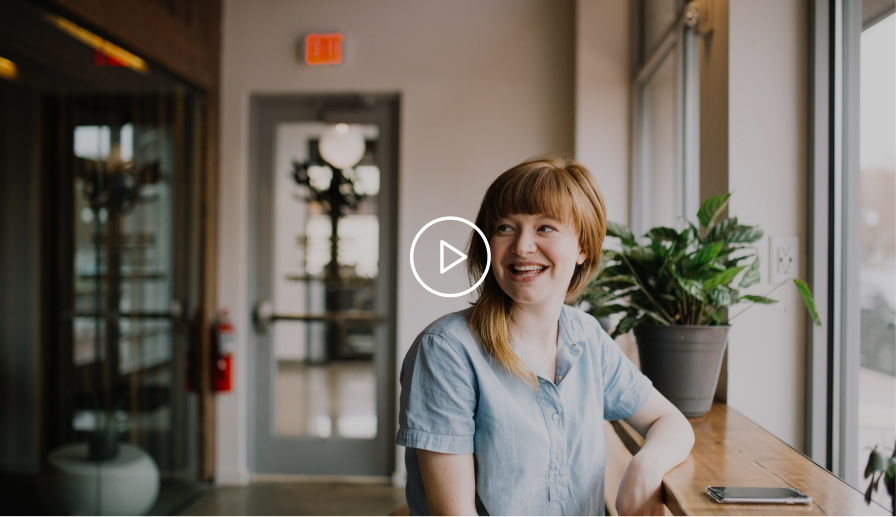
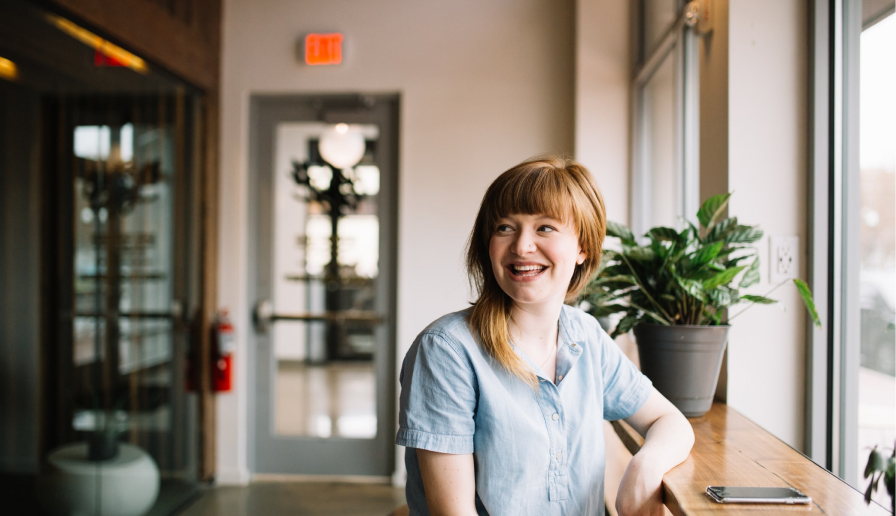
verstka

diff --git a/index.html b/index.html
@@ -11,13 +11,17 @@
     <link rel="stylesheet" href="./css/blocks/home.css" />
     <link rel="stylesheet" href="./css/blocks/how-it-works.css" />
     <link rel="stylesheet" href="./css/blocks/story.css" />
+    <link rel="stylesheet" href="./css/blocks/product.css" />
+    <link rel="stylesheet" href="./css/blocks/card.css" />
+    <link rel="stylesheet" href="./css/blocks/avatar.css" />
+    <link rel="stylesheet" href="./css/blocks/footer.css" />
     <link rel="stylesheet" href="./css/fonts/Georgia/stylesheet.css" />
     <link rel="stylesheet" href="./css/fonts/Lato/stylesheet.css" />
 
-    <title>Document</title>
+    <title>Alivio</title>
   </head>
   <body>
-    <header class="header none">
+    <header class="header ">
       <div class="container">
         <div class="header-row">
           <div class="header-logo"><img src="./img/Logo.svg" alt="Logo" /></div>
@@ -37,7 +41,7 @@
       </div>
     </header>
     <main>
-      <section class="home none">
+      <section class="home ">
         <div class="container">
           <div class="home-content">
             <h1 class="home-heading">Be aware, Manage well.</h1>
@@ -53,12 +57,12 @@
             </div>
           </div>
           <div class="home-bg-img">
-            <img src="/img/BG.jpg" alt="BG" />
+            <img src="/alivio-landing-page/img/BG.jpg" alt="BG" />
           </div>
         </div>
       </section>
 
-      <section class="how-it-works none">
+      <section class="how-it-works ">
         <div class="container">
           <div class="how-it-works-header">
             <div class="how-it-works-header-head">
@@ -86,7 +90,7 @@
                 </p>
               </div>
               <div class="step-img">
-                <img src="/img/01.jpg" alt="step 01" />
+                <img src="/alivio-landing-page/img/01.jpg" alt="step 01" />
               </div>
             </div>
             <!-- STEP1 -->
@@ -101,7 +105,7 @@
                 </p>
               </div>
               <div class="step-img">
-                <img src="/img/02.jpg" alt="step 02" />
+                <img src="/alivio-landing-page/img/02.jpg" alt="step 02" />
               </div>
             </div>
             <!-- STEP2 -->
@@ -116,7 +120,7 @@
                 </p>
               </div>
               <div class="step-img">
-                <img src="/img/03.jpg" alt="step 03" />
+                <img src="/alivio-landing-page/img/03.jpg" alt="step 03" />
               </div>
             </div>
             <!-- STEP3 -->
@@ -124,8 +128,8 @@
         </div>
       </section>
 
-      <section class="story">
-        <div class="container">
+      <section class="story ">
+        <div class="container container-wide">
           <div class="storyRow">
             <div class="story-content">
               <div class="story-content-head">
@@ -138,11 +142,87 @@
                 <a href="#" class="btn btn-big">Let’s get started</a>
               </div>
             </div>
-            <div class="story-video">VIDEO</div>
+
+            <div class="story-video">
+							<div id="video-story-overlay" class="story-video-overlay">
+								<button id="video-story-btn" class="story-video-btn">
+									<img id="video-story-btn-icon" width="82" height="82" src="/alivio-landing-page/img/play-white.svg" alt="Play" />
+								</button>
+							</div>
+
+							<img
+								src="/alivio-landing-page/img/Video.jpg"
+								alt="Video"
+								class="story-video-object"
+							/>
+						</div>
+          
+        </div>
+      </section>
+      <section class="product ">
+        <div class="container">
+          <div class="product-row">
+            <div class="product-img-wrapper">
+             <img src="/alivio-landing-page/img/product-01.jpg" alt="Photo">
+              <div class="product-card">
+              <div class="card">
+                <h3 class="card-title"> Customized For</h3>
+                <div class="card-avatar">
+                  <div class="avatar">
+                    <img src="/alivio-landing-page/img/avatar.jpg" alt="avatar" class="avatar-img">
+                  <div class="avatar-name">Mikayla</div>
+                  </div>
+              
+                </div>
+                <div class="card-contents">
+                  <h3 class="card-contents-title">
+                    Your custom contents
+                  </h3>
+                  <ul>
+                    <li>Understand Your Stress</li>
+                    <li>Anger Management</li>
+                  </ul>
+                </div>
+                
+
+               
+              </div>
+            </div>
+            </div>
+            <div class="product-content">
+              <h2 class="product-content-title">Our product</h2>
+              <h3 class="product-content-subtitle">You tell us your stress,
+                We make your diary</h3>
+              <div class="product-content-text">
+                <p>Everyone experiences it, and in different ways.
+                  Let Alivio guide you, in a personalized journal experience, to overcome your stress.</p>
+              </div>
+              <div class="product-content-btn">
+                <a href="#" class="btn btn-big">Find Your Way</a>
+              </div>
+            </div>
           </div>
         </div>
       </section>
     </main>
-    <footer></footer>
+    <footer class="footer">
+      <div class="container">
+        <div class="footer-content">
+          <img class="footer-logo" src="/alivio-landing-page/img/LogoSmall.svg" alt="LogoSmall">
+            <nav class="footer-nav">
+              <ul>
+                <li><a href="#"> Why Alivio</a></li>
+                <li><a href="#">Solutions</a></li>
+                <li><a href="#">Community</a></li>
+                <li><a href="#">Pricing</a></li>
+              </ul>
+            </nav>
+          
+        </div>
+
+
+      </div>
+
+    </footer>
   </body>
 </html>

diff --git a/css/blocks/card.css b/css/blocks/card.css
@@ -1,0 +1,62 @@
+.card {
+  border-radius: 4px;
+  width: 296px;
+  height: 293px;
+  background-color: white;
+  box-shadow: 0px 3.62249px 18.1125px rgba(165, 165, 165, 0.25);
+  display: flex;
+  flex-direction: column;
+  align-items: center;
+  padding: 28px 20px 30px;
+}
+.card-title {
+  position: relative;
+  font-weight: 600;
+  font-size: 14px;
+  line-height: 1;
+  padding-bottom: 12px;
+  margin-bottom: 13px;
+}
+.card-title::after {
+  content: "";
+  position: absolute;
+  background-color: black;
+  height: 1px;
+  width: 110px;
+  left: -7px;
+  right: -7px;
+  bottom: 0;
+}
+.card-avatar {
+  margin-bottom: 25px;
+}
+.card-contents {
+  text-align: left;
+  padding-left: 6px;
+}
+.card-contents-title {
+  font-family: "Georgia";
+  font-style: normal;
+  font-weight: 700;
+  font-size: 16px;
+  line-height: 157%;
+  padding-bottom: 16px;
+}
+.card ul {
+  font-size: 10.62px;
+  list-style: disc;
+  list-style-position: inside;
+}
+.card li {
+  list-style: disc;
+  list-style-position: inside;
+  font-family: "Lato";
+  font-style: normal;
+  font-weight: 400;
+  font-size: 10.6195px;
+  line-height: 157%;
+  color: #000000;
+}
+.card ul li + li {
+  margin-top: 20px;
+}

diff --git a/css/blocks/product.css b/css/blocks/product.css
@@ -1,0 +1,57 @@
+.product {
+  padding-top: 120px;
+  padding-bottom: 168px;
+}
+
+.product-row {
+  display: flex;
+  justify-content: space-between;
+}
+.product-img {
+  margin-right: 86px;
+}
+.product-content {
+  max-width: 584px;
+}
+.product-content-title {
+  font-family: "Lato";
+  font-style: normal;
+  font-weight: 600;
+  font-size: 25px;
+  line-height: 157%;
+  color: #424242;
+  margin-bottom: 10px;
+}
+.product-content-subtitle {
+  font-family: "Georgia";
+  font-style: normal;
+  font-weight: 700;
+  font-size: 50px;
+  line-height: 157%;
+  color: #01996d;
+  margin-bottom: 20px;
+}
+.product-content-text {
+  font-family: "Lato";
+  font-style: normal;
+  font-weight: 400;
+  font-size: 20px;
+  line-height: 31px;
+  color: #484848;
+  margin-bottom: 40px;
+  max-width: 530px;
+}
+.product img {
+  border-radius: 18px;
+}
+.product-img-wrapper {
+  position: relative;
+  margin-right: 86px;
+  padding-left: 60px;
+  padding-bottom: 74px;
+}
+.product-card {
+  position: absolute;
+  left: 0px;
+  bottom: 0px;
+}

diff --git a/css/blocks/story.css b/css/blocks/story.css
@@ -20,7 +20,6 @@
   font-weight: 700;
   font-size: 50px;
   line-height: 157%;
-
   margin-bottom: 33px;
 }
 .story-content-text {
@@ -31,11 +30,27 @@
   line-height: 157%;
   margin-bottom: 57px;
 }
-.story-content-btn {
-}
-.btn {
-}
-.btn-big {
-}
 .story-video {
+  width: 895px;
+  position: relative;
+}
+
+.story-video-btn {
+  position: absolute;
+  left: 50%;
+  top: 50%;
+  transform: translate(-50%, -50%);
+}
+
+.story-video-overlay {
+  position: absolute;
+  left: 0;
+  top: 0;
+  width: 100%;
+  height: 100%;
+  background-color: rgba(0, 0, 0, 0.2);
+  transition: opacity 0.2s ease;
+}
+
+.story-video-object {
 }

diff --git a/css/blocks/footer.css b/css/blocks/footer.css
@@ -1,0 +1,27 @@
+.footer {
+  background-color: #245852;
+  height: 654px;
+  padding: 104px 0 144px;
+  color: white;
+}
+.footer-content {
+  /* margin-top: 104px; */
+}
+.footer-logo {
+}
+.footer-logo + * {
+  margin-top: 74px;
+}
+.footer-nav {
+  font-size: 25px;
+  font-weight: 600;
+}
+.footer-nav a {
+  transition: opacity 0.3sec ease-in;
+}
+.footer-nav a:hover {
+  opacity: 0.8;
+}
+.footer-nav li + li {
+  margin-top: 60px;
+}

diff --git a/css/blocks/avatar.css b/css/blocks/avatar.css
@@ -1,0 +1,13 @@
+.avatar {
+  text-align: center;
+}
+.avatar-img {
+  margin-bottom: 13px;
+  width: 57px;
+  height: 57px;
+  border-radius: 50%;
+  object-fit: cover;
+}
+.avatar-name {
+  font-size: 12px;
+}

diff --git a/css/blocks/home.css b/css/blocks/home.css
@@ -29,6 +29,8 @@
   top: 0;
   left: 0;
   z-index: -1;
+  width: 100%;
+  height: 895px;
 }
 .home-bg-img img {
   width: 100%;

diff --git a/css/base.css b/css/base.css
@@ -31,3 +31,6 @@ body {
   margin-left: auto;
   margin-right: auto;
 }
+.container-wide {
+  width: 1536px;
+}
